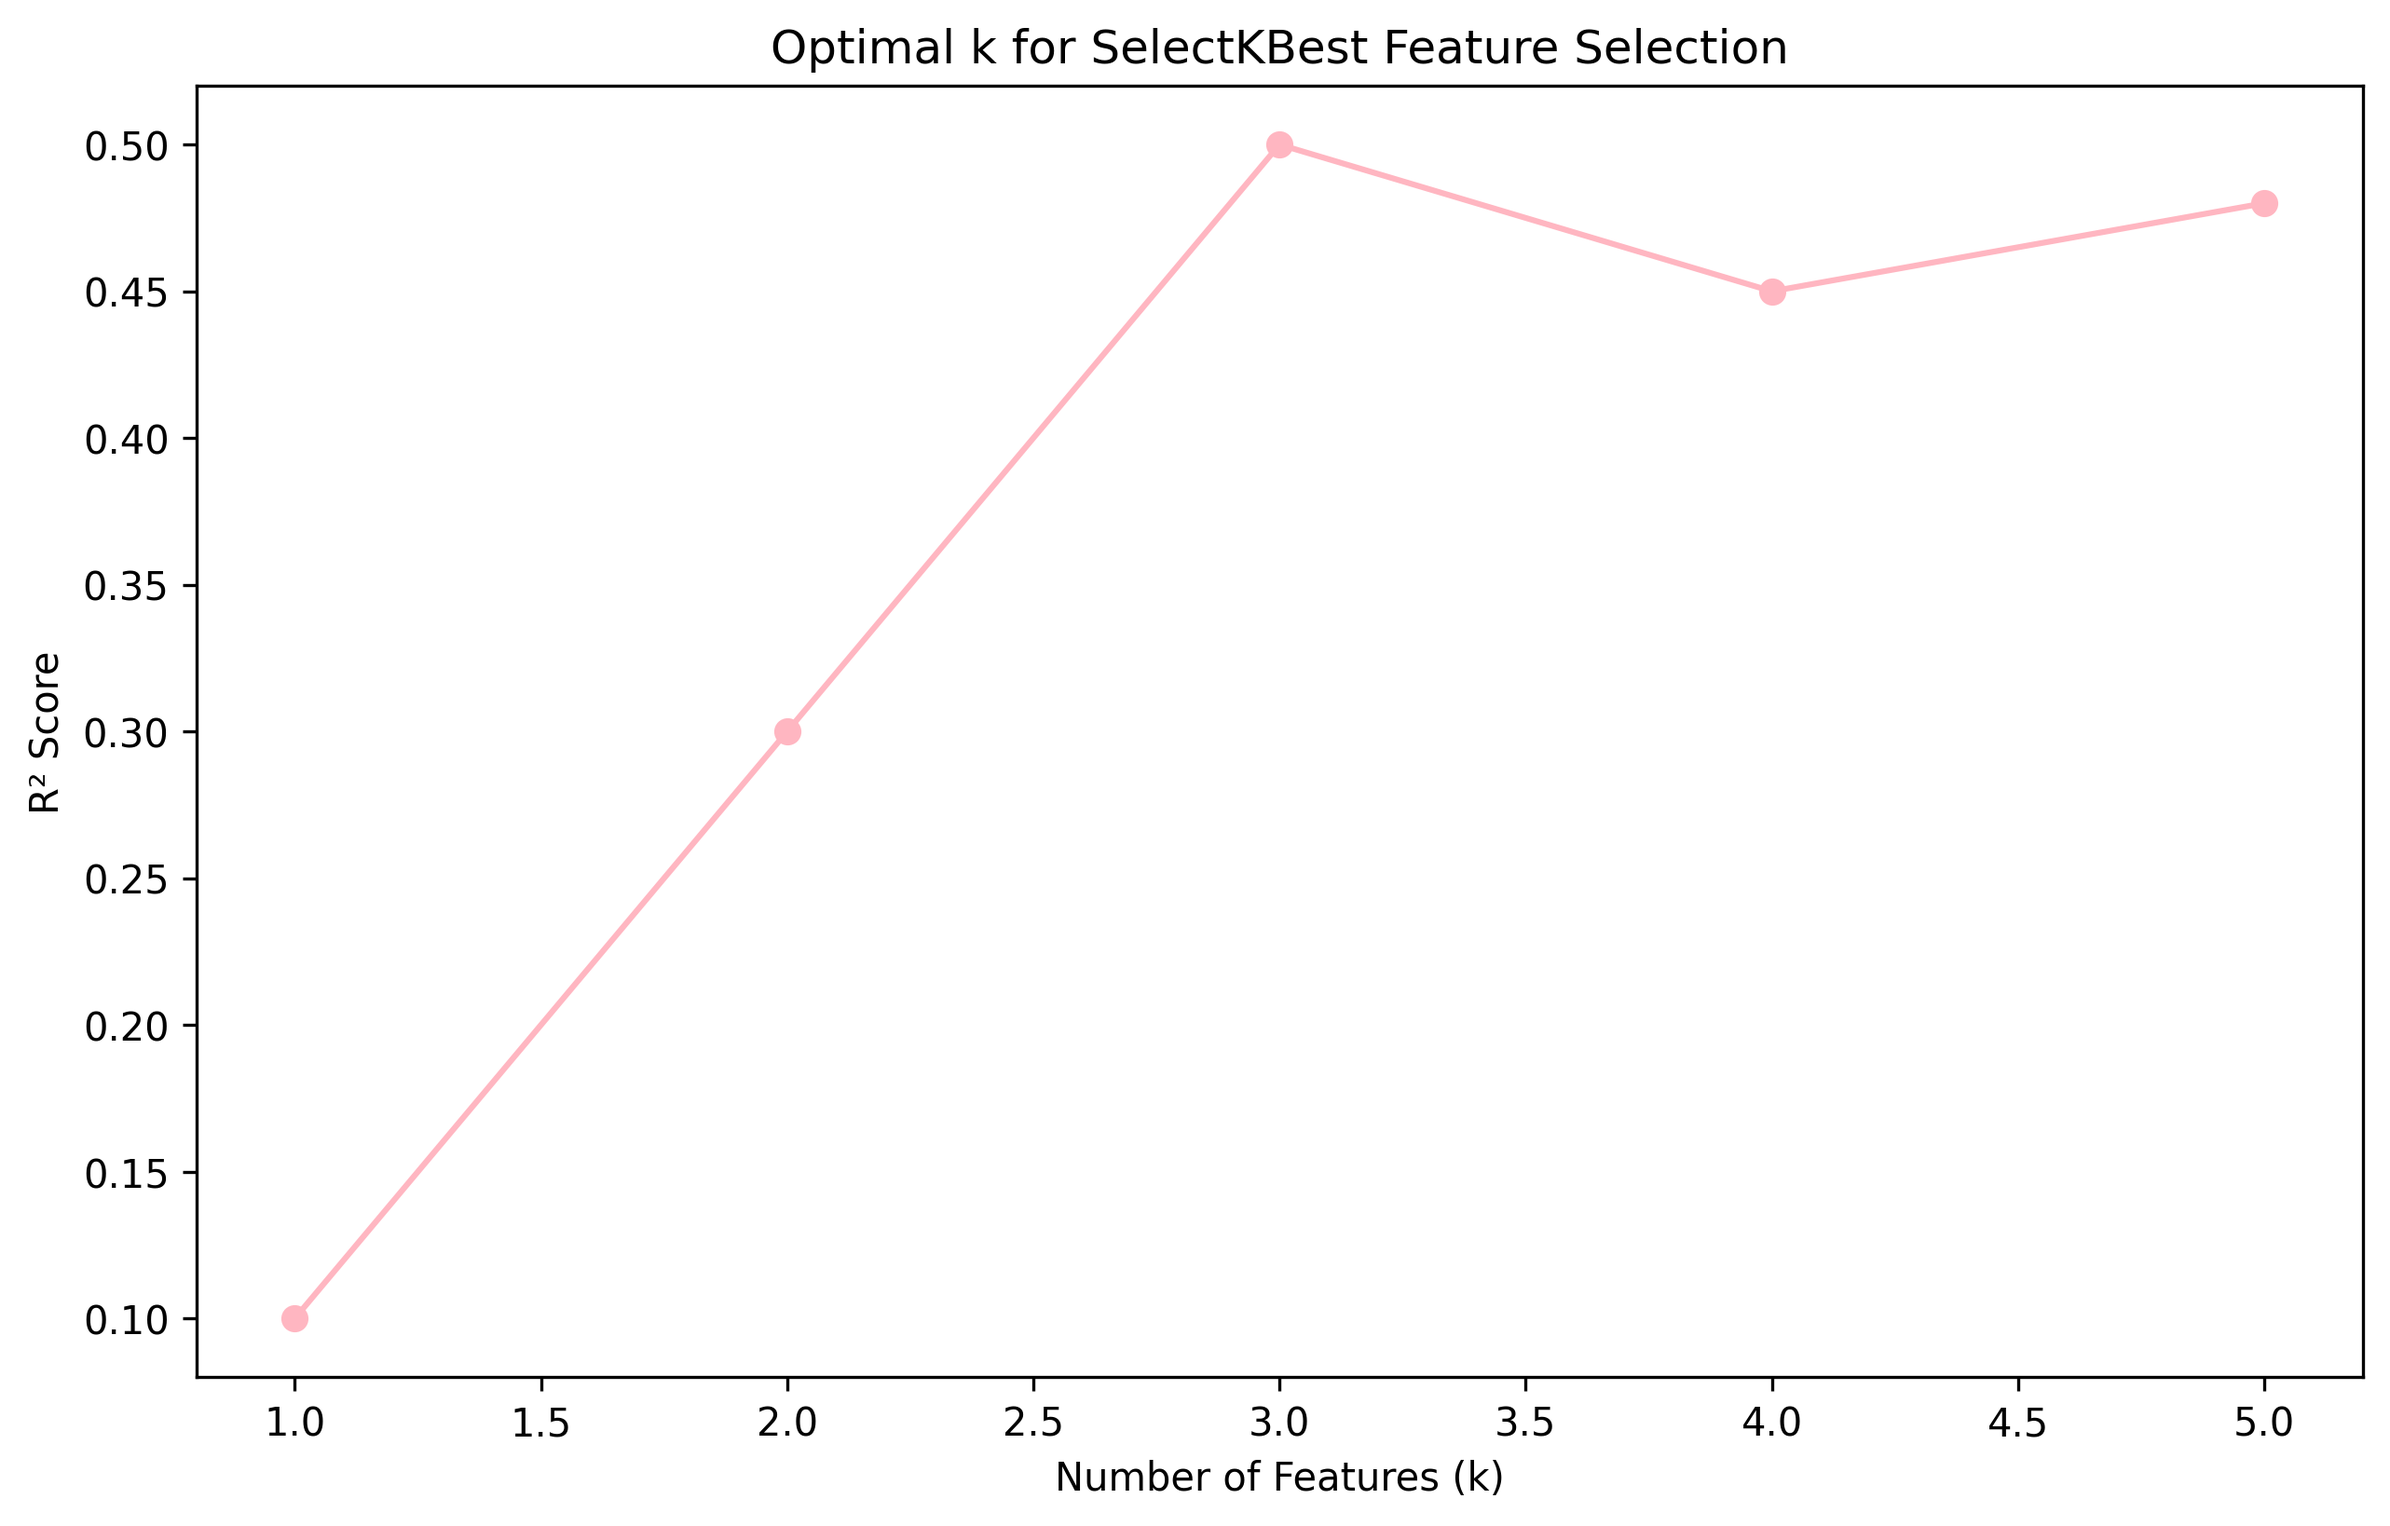
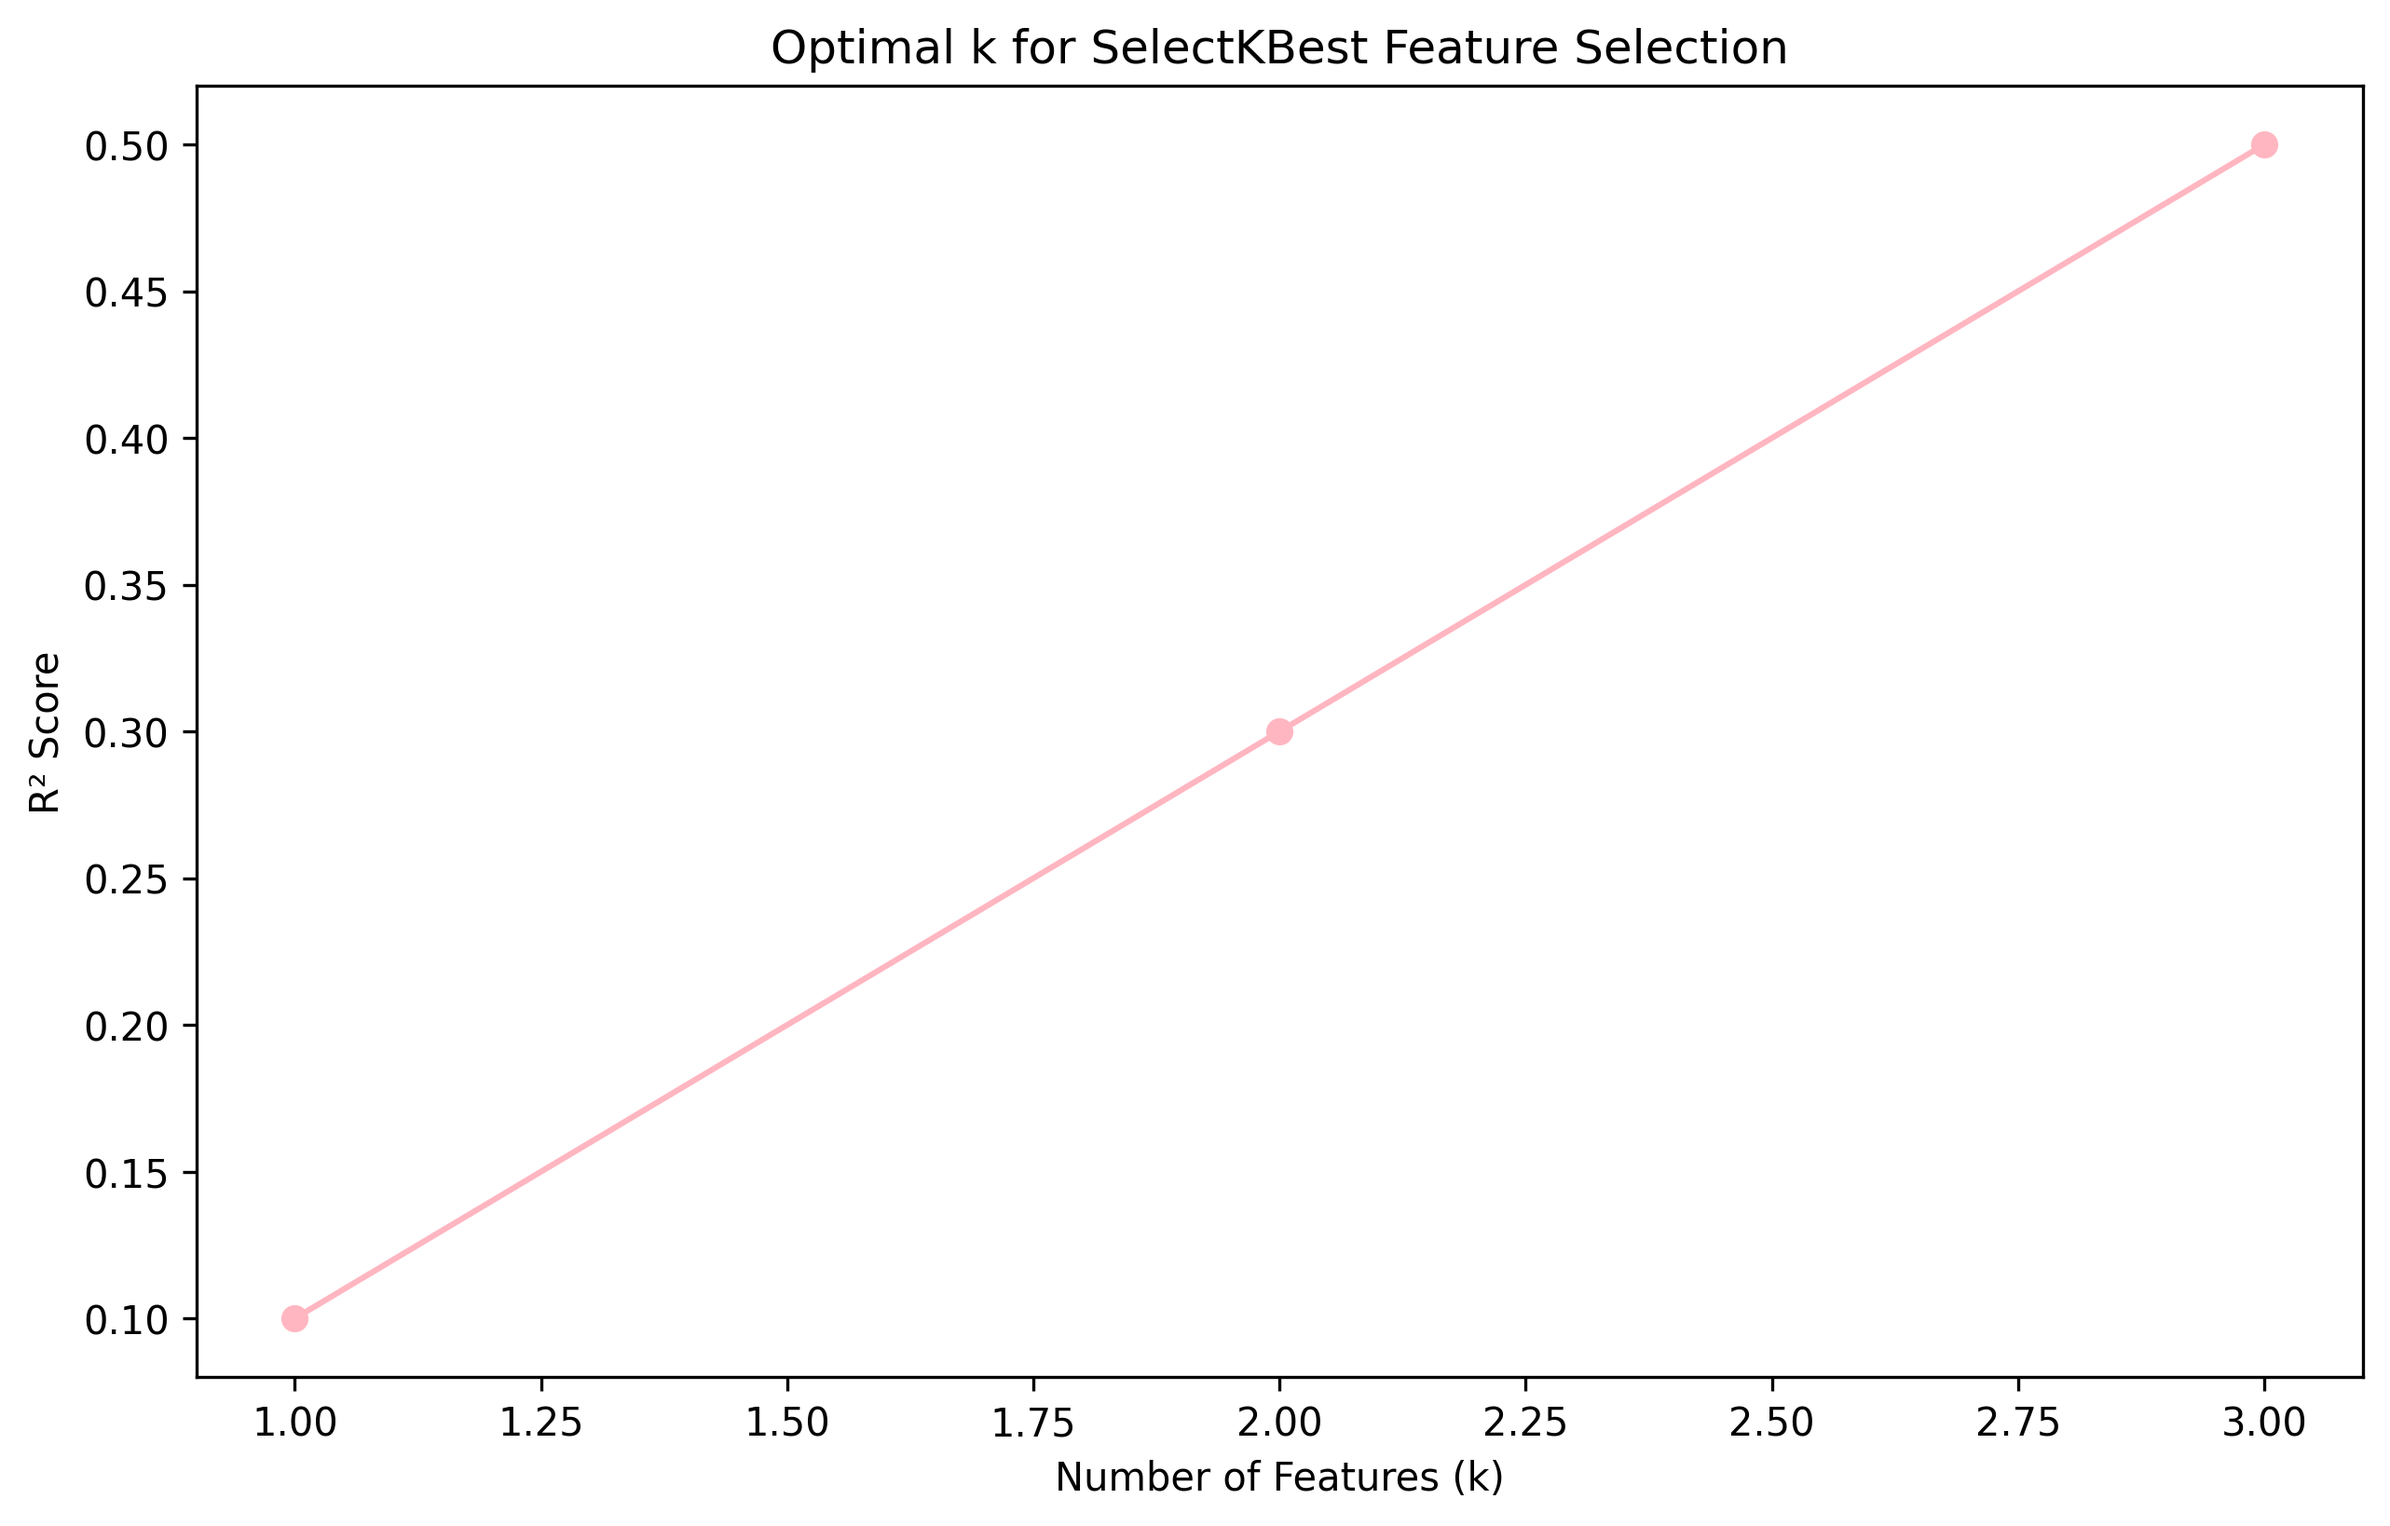
test update

diff --git a/tests/test_plot_best_models.py b/tests/test_plot_best_models.py
@@ -1,0 +1,82 @@
+import numpy as np
+import pytest
+import matplotlib
+import warnings
+import pandas as pd
+from sklearn.datasets import make_regression
+from sklearn.model_selection import train_test_split
+from sklearn.preprocessing import StandardScaler
+from sklearn.exceptions import ConvergenceWarning
+
+from pkapredict.plotting import plot_best_models
+
+# Use non-GUI backend
+matplotlib.use("Agg")
+
+# Fixture with real descriptor names
+@pytest.fixture(scope="module")
+def descriptor_names():
+    return [
+        "Smiles", "MaxAbsEStateIndex", "MaxEStateIndex", "MinAbsEStateIndex", "MinEStateIndex", "qed", "SPS",
+        "MolWt", "HeavyAtomMolWt", "ExactMolWt", "NumValenceElectrons", "NumRadicalElectrons",
+        "MaxPartialCharge", "MinPartialCharge", "MaxAbsPartialCharge", "MinAbsPartialCharge",
+        "FpDensityMorgan1", "FpDensityMorgan2", "FpDensityMorgan3", "BCUT2D_MWHI", "BCUT2D_MWLOW",
+        "BCUT2D_CHGHI", "BCUT2D_CHGLO", "BCUT2D_LOGPHI", "BCUT2D_LOGPLOW", "BCUT2D_MRHI", "BCUT2D_MRLOW",
+        "AvgIpc", "BalabanJ", "BertzCT", "Chi0", "Chi0n", "Chi0v", "Chi1", "Chi1n", "Chi1v", "Chi2n", "Chi2v",
+        "Chi3n", "Chi3v", "Chi4n", "Chi4v", "HallKierAlpha", "Ipc", "Kappa1", "Kappa2", "Kappa3", "LabuteASA",
+        "PEOE_VSA1", "PEOE_VSA10", "PEOE_VSA11", "PEOE_VSA12", "PEOE_VSA13", "PEOE_VSA14", "PEOE_VSA2",
+        "PEOE_VSA3", "PEOE_VSA4", "PEOE_VSA5", "PEOE_VSA6", "PEOE_VSA7", "PEOE_VSA8", "PEOE_VSA9",
+        "SMR_VSA1", "SMR_VSA10", "SMR_VSA2", "SMR_VSA3", "SMR_VSA4", "SMR_VSA5", "SMR_VSA6", "SMR_VSA7",
+        "SMR_VSA8", "SMR_VSA9", "SlogP_VSA1", "SlogP_VSA10", "SlogP_VSA11", "SlogP_VSA12", "SlogP_VSA2",
+        "SlogP_VSA3", "SlogP_VSA4", "SlogP_VSA5", "SlogP_VSA6", "SlogP_VSA7", "SlogP_VSA8", "SlogP_VSA9",
+        "TPSA", "EState_VSA1", "EState_VSA10", "EState_VSA11", "EState_VSA2", "EState_VSA3", "EState_VSA4",
+        "EState_VSA5", "EState_VSA6", "EState_VSA7", "EState_VSA8", "EState_VSA9", "VSA_EState1",
+        "VSA_EState10", "VSA_EState2", "VSA_EState3", "VSA_EState4", "VSA_EState5", "VSA_EState6",
+        "VSA_EState7", "VSA_EState8", "VSA_EState9", "FractionCSP3", "HeavyAtomCount", "NHOHCount",
+        "NOCount", "NumAliphaticCarbocycles", "NumAliphaticHeterocycles", "NumAliphaticRings",
+        "NumAmideBonds", "NumAromaticCarbocycles", "NumAromaticHeterocycles", "NumAromaticRings",
+        "NumAtomStereoCenters", "NumBridgeheadAtoms", "NumHAcceptors", "NumHDonors", "NumHeteroatoms",
+        "NumHeterocycles", "NumRotatableBonds", "NumSaturatedCarbocycles", "NumSaturatedHeterocycles",
+        "NumSaturatedRings", "NumSpiroAtoms", "NumUnspecifiedAtomStereoCenters", "Phi", "RingCount",
+        "MolLogP", "MolMR", "fr_Al_COO", "fr_Al_OH", "fr_Al_OH_noTert", "fr_ArN", "fr_Ar_COO", "fr_Ar_N",
+        "fr_Ar_NH", "fr_Ar_OH", "fr_COO", "fr_COO2", "fr_C_O", "fr_C_O_noCOO", "fr_C_S", "fr_HOCCN",
+        "fr_Imine", "fr_NH0", "fr_NH1", "fr_NH2", "fr_N_O", "fr_Ndealkylation1", "fr_Ndealkylation2",
+        "fr_Nhpyrrole", "fr_SH", "fr_aldehyde", "fr_alkyl_carbamate", "fr_alkyl_halide", "fr_allylic_oxid",
+        "fr_amide", "fr_amidine", "fr_aniline", "fr_aryl_methyl", "fr_azide", "fr_azo", "fr_barbitur",
+        "fr_benzene", "fr_benzodiazepine", "fr_bicyclic", "fr_diazo", "fr_dihydropyridine", "fr_epoxide",
+        "fr_ester", "fr_ether", "fr_furan", "fr_guanido", "fr_halogen", "fr_hdrzine", "fr_hdrzone",
+        "fr_imidazole", "fr_imide", "fr_isocyan", "fr_isothiocyan", "fr_ketone", "fr_ketone_Topliss",
+        "fr_lactam", "fr_lactone", "fr_methoxy", "fr_morpholine", "fr_nitrile", "fr_nitro",
+        "fr_nitro_arom", "fr_nitro_arom_nonortho", "fr_nitroso", "fr_oxazole", "fr_oxime",
+        "fr_para_hydroxylation", "fr_phenol", "fr_phenol_noOrthoHbond", "fr_phos_acid", "fr_phos_ester",
+        "fr_piperdine", "fr_piperzine", "fr_priamide", "fr_prisulfonamd", "fr_pyridine", "fr_quatN",
+        "fr_sulfide", "fr_sulfonamd", "fr_sulfone", "fr_term_acetylene", "fr_tetrazole", "fr_thiazole",
+        "fr_thiocyan", "fr_thiophene", "fr_unbrch_alkane", "fr_urea"
+    ][:5]  # only use first 5 for synthetic regression to match 5 features
+
+def test_plot_best_models(descriptor_names):
+    # Generate synthetic regression dataset
+    X, y = make_regression(n_samples=100, n_features=5, noise=0.1, random_state=42)
+    X_train, X_valid, y_train, y_valid = train_test_split(X, y, test_size=0.2, random_state=42)
+
+    # Standardize features
+    scaler = StandardScaler()
+    X_train_scaled = scaler.fit_transform(X_train)
+    X_valid_scaled = scaler.transform(X_valid)
+
+    # Use real descriptor names (only 5 to match synthetic data)
+    X_train_df = pd.DataFrame(X_train_scaled, columns=descriptor_names)
+    X_valid_df = pd.DataFrame(X_valid_scaled, columns=descriptor_names)
+    y_train_series = pd.Series(y_train)
+    y_valid_series = pd.Series(y_valid)
+
+    with warnings.catch_warnings():
+        warnings.simplefilter("ignore", ConvergenceWarning)
+
+        models_sorted = plot_best_models(X_train_df, X_valid_df, y_train_series, y_valid_series)
+
+    assert isinstance(models_sorted, pd.DataFrame)
+    assert not models_sorted.empty
+    assert "R-Squared" in models_sorted.columns
+
+

diff --git a/tests/test_predict_pKa.py b/tests/test_predict_pKa.py
@@ -1,29 +1,42 @@
 import pytest
-import numpy as np
-from unittest.mock import MagicMock
 from pkapredict.predict_pKa import predict_pKa
+from pkapredict.load_model import load_model
 
-# Fixture for a minimal descriptor list
-@pytest.fixture
+# Real descriptor list, as in your script
+@pytest.fixture(scope="module")
 def descriptor_names():
-    return ["desc1", "desc2", "desc3"]
+    return ['MaxAbsEStateIndex', 'MaxEStateIndex', 'MinAbsEStateIndex', 'MinEStateIndex', 'SPS',
+            'NumValenceElectrons', 'MaxPartialCharge', 'MinPartialCharge', 'MaxAbsPartialCharge',
+            'MinAbsPartialCharge', 'FpDensityMorgan1', 'FpDensityMorgan2', 'FpDensityMorgan3',
+            'BCUT2D_MWHI', 'BCUT2D_MWLOW', 'BCUT2D_CHGLO', 'BCUT2D_LOGPLOW', 'BCUT2D_MRHI',
+            'BalabanJ', 'BertzCT', 'Chi0', 'Chi0n', 'Chi1', 'Chi1n', 'Chi3v', 'Chi4v', 'HallKierAlpha',
+            'Kappa1', 'Kappa2', 'Kappa3', 'LabuteASA', 'PEOE_VSA1', 'PEOE_VSA12', 'PEOE_VSA13',
+            'PEOE_VSA14', 'PEOE_VSA3', 'PEOE_VSA4', 'PEOE_VSA5', 'PEOE_VSA6', 'PEOE_VSA7',
+            'PEOE_VSA8', 'PEOE_VSA9', 'SMR_VSA1', 'SMR_VSA10', 'SMR_VSA2', 'SMR_VSA3', 'SMR_VSA4',
+            'SMR_VSA5', 'SMR_VSA6', 'SMR_VSA7', 'SMR_VSA9', 'SlogP_VSA1', 'SlogP_VSA10',
+            'SlogP_VSA11', 'SlogP_VSA12', 'SlogP_VSA2', 'SlogP_VSA3', 'SlogP_VSA4', 'SlogP_VSA5',
+            'SlogP_VSA6', 'SlogP_VSA7', 'SlogP_VSA8', 'TPSA', 'EState_VSA1', 'EState_VSA10',
+            'EState_VSA2', 'EState_VSA3', 'EState_VSA4', 'EState_VSA5', 'EState_VSA6', 'EState_VSA7',
+            'EState_VSA8', 'EState_VSA9', 'VSA_EState1', 'VSA_EState10', 'VSA_EState2', 'VSA_EState3',
+            'VSA_EState4', 'VSA_EState6', 'VSA_EState7', 'VSA_EState8', 'VSA_EState9', 'FractionCSP3',
+            'NHOHCount', 'NOCount', 'NumAliphaticHeterocycles', 'NumAliphaticRings',
+            'NumAromaticHeterocycles', 'NumAromaticRings', 'NumBridgeheadAtoms', 'NumHAcceptors',
+            'NumHeteroatoms', 'NumHeterocycles', 'NumRotatableBonds', 'NumSaturatedHeterocycles',
+            'NumSaturatedRings', 'Phi', 'MolMR', 'fr_Al_COO', 'fr_ArN', 'fr_Ar_COO', 'fr_Ar_N',
+            'fr_Ar_OH', 'fr_COO', 'fr_COO2', 'fr_C_O', 'fr_C_O_noCOO', 'fr_C_S', 'fr_HOCCN',
+            'fr_Imine', 'fr_NH0', 'fr_NH1', 'fr_NH2', 'fr_N_O', 'fr_Ndealkylation1',
+            'fr_Ndealkylation2', 'fr_alkyl_halide', 'fr_allylic_oxid', 'fr_amidine', 'fr_aniline',
+            'fr_aryl_methyl', 'fr_azide', 'fr_azo', 'fr_ester', 'fr_ether', 'fr_guanido',
+            'fr_halogen', 'fr_imidazole', 'fr_lactam', 'fr_methoxy', 'fr_nitrile', 'fr_nitroso',
+            'fr_phenol', 'fr_phenol_noOrthoHbond', 'fr_piperdine', 'fr_pyridine', 'fr_quatN',
+            'fr_sulfide', 'fr_sulfonamd', 'fr_sulfone', 'fr_tetrazole', 'fr_thiazole']
 
-# The actual test function
-def test_predict_pKa(monkeypatch, descriptor_names):
-    # Mock the model
-    mock_model = MagicMock()
-    mock_model.predict.return_value = [5.55]
+def test_predict_pKa_real_model(descriptor_names):
+    model = load_model()
+    smiles = "CCO"  # ethanol, a simple and valid test case
 
-    # Mock the descriptor generator
-    def mock_smiles_to_rdkit_descriptors(smiles, desc_names):
-        return np.array([1.0, 2.0, 3.0])
-    
-    monkeypatch.setattr(
-        "pkapredict.predict_pKa.smiles_to_rdkit_descriptors",
-        mock_smiles_to_rdkit_descriptors
-    )
-
-    predicted = predict_pKa("CCO", mock_model, descriptor_names)
+    predicted = predict_pKa(smiles, model, descriptor_names)
 
     assert isinstance(predicted, float)
-    assert predicted == 5.55
+    assert 0 <= predicted <= 14  # sanity range check for pKa values
+

diff --git a/tests/test_plot_data.py b/tests/test_plot_data.py
@@ -1,0 +1,37 @@
+import numpy as np
+import pytest
+import matplotlib
+import os
+import pandas as pd
+from sklearn.datasets import make_regression
+from sklearn.model_selection import train_test_split
+from sklearn.preprocessing import StandardScaler
+
+# Use non-interactive backend for testing
+
+
+from pkapredict.plotting import plot_data, plot_best_models, plot_k_vs_r2_ET
+
+def test_plot_data(capsys):
+    actual = np.array([3.2, 7.4, 10.5])
+    predicted = np.array([3.1, 7.3, 10.7])
+
+    try:
+        plot_data(actual, predicted, "Test pKa Plot")
+    except Exception as e:
+        pytest.fail(f"plot_data raised an exception: {e}")
+
+    captured = capsys.readouterr()
+    assert "R² = " in captured.out
+    assert "RMSE = " in captured.out
+    assert "✅ Plot generated with R²" in captured.out
+
+
+
+
+
+
+
+
+
+

diff --git a/tests/test_plot_k_vs_r2.py b/tests/test_plot_k_vs_r2.py
@@ -1,0 +1,18 @@
+import pytest
+from pkapredict.plotting import plot_k_vs_r2_ET
+
+def test_plot_k_vs_r2_ET_runs_and_shows_plot():
+    # Simplified test data
+    k_values = [1, 2, 3]
+    r2_scores = [0.1, 0.3, 0.5]
+
+    try:
+        # Just call the function — it will show the plot as coded
+        result = plot_k_vs_r2_ET(k_values, r2_scores, save_filename=None)
+
+        # If no file is saved, the result is likely None or ignored
+        # You can skip this assert if your function returns nothing
+    except Exception as e:
+        pytest.fail(f"plot_k_vs_r2_ET raised an exception: {e}")
+
+
